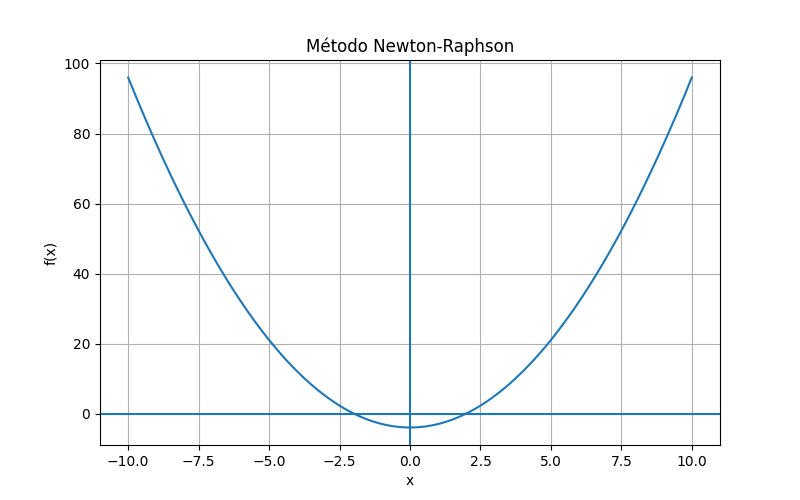
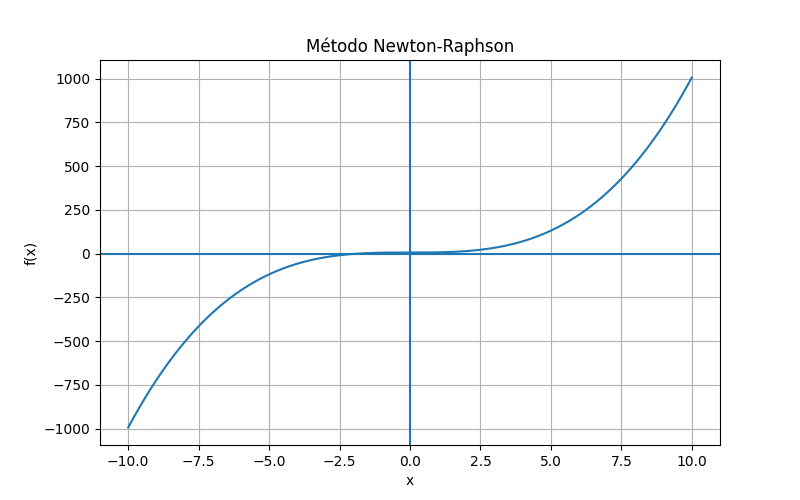
newton raphson finalizado

diff --git a/metodos/templates/newton.html b/metodos/templates/newton.html
@@ -60,6 +60,46 @@
 
         <h1>Método Newton-Raphson</h1>
 
+        <h2>¿Qué es el método Newton-Raphson?</h2>
+
+<p>
+El método Newton-Raphson es un método numérico utilizado para encontrar
+raíces aproximadas de ecuaciones matemáticas.
+</p>
+
+<p>
+El método utiliza derivadas para generar aproximaciones sucesivas
+hasta acercarse a la solución de la función.
+</p>
+
+<h3>Fórmula del método</h3>
+
+<p>
+x(n+1) = x(n) - f(x) / f'(x)
+</p>
+
+<h3>¿Qué significa cada dato?</h3>
+
+<p>
+<strong>Función:</strong>
+Es la ecuación matemática que se desea resolver.
+</p>
+
+<p>
+<strong>x0:</strong>
+Es el valor inicial desde donde comienza la aproximación.
+</p>
+
+<p>
+<strong>Tolerancia:</strong>
+Es el error máximo permitido para aceptar la solución.
+</p>
+
+<p>
+<strong>Iteraciones:</strong>
+Es la cantidad máxima de repeticiones que realizará el método.
+</p>
+
         <form method="POST">
 
     {% csrf_token %}
@@ -141,6 +181,50 @@
 <h2>Gráfica de la función</h2>
 
 <img src="/static/grafica.png" width="700">
+
+<br><br>
+
+<h2>Interpretación del Método Newton-Raphson</h2>
+
+<p>
+El método Newton-Raphson es un método numérico utilizado para encontrar
+raíces aproximadas de una función matemática.
+</p>
+
+<p>
+El método utiliza derivadas y aproximaciones sucesivas para acercarse
+cada vez más a la raíz de la función.
+</p>
+
+<p>
+En este caso, la función ingresada fue:
+<strong>{{ funcion }}</strong>
+</p>
+
+<p>
+La raíz aproximada encontrada por el método fue:
+<strong>{{ raiz }}</strong>
+</p>
+
+<p>
+La tabla de iteraciones muestra cómo el método fue mejorando
+la aproximación en cada paso hasta cumplir la tolerancia establecida.
+</p>
+
+<p>
+El error disminuye progresivamente en cada iteración,
+lo que indica que el método está convergiendo correctamente.
+</p>
+
+<p>
+La gráfica representa el comportamiento de la función matemática.
+Los puntos donde la curva cruza el eje x representan las raíces de la función.
+</p>
+
+<p>
+La convergencia observada demuestra que el método Newton-Raphson
+es eficiente para aproximar soluciones de ecuaciones no lineales.
+</p>
 
     </div>
 
